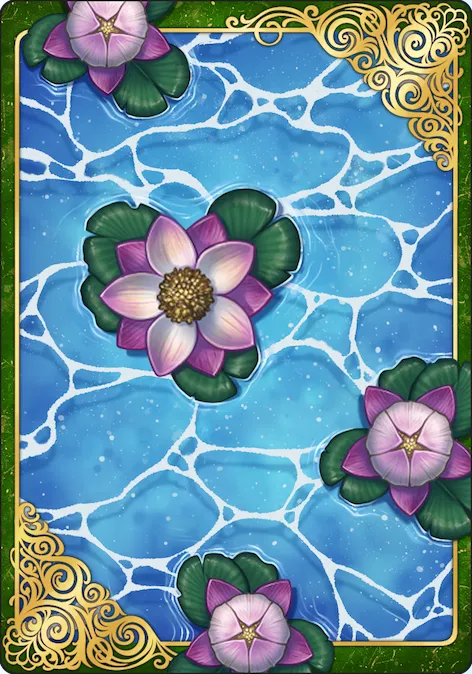
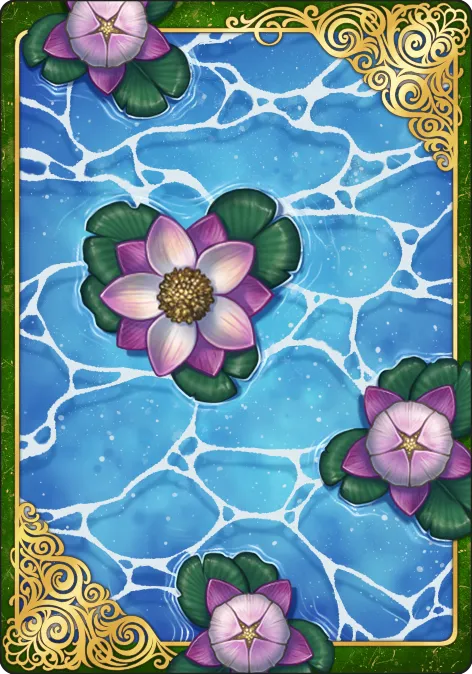
Added lotus cardbacks

diff --git a/shared/purchaseables/cardbacks.ts b/shared/purchaseables/cardbacks.ts
@@ -11,6 +11,11 @@ const cardbacks: Purchaseable[] = [
     cost: 100,
     itemId: 2,
   },
+  {
+    id: 2003,
+    cost: 100,
+    itemId: 3,
+  },
 ]
 
 export default cardbacks

diff --git a/client/src/data/cardbackNames.ts b/client/src/data/cardbackNames.ts
@@ -1,1 +1,1 @@
-export default ['Default', 'Astrology', 'Blossom']
+export default ['Default', 'Astrology', 'Blossom', 'Lotus']